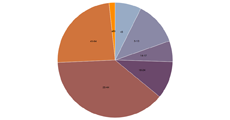
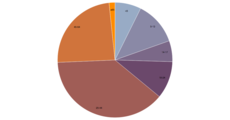
Improve.

diff --git a/index.html b/index.html
@@ -2,8 +2,9 @@
 <meta charset="utf-8">
 <style>
 
-body {
+.arc text {
   font: 10px sans-serif;
+  text-anchor: middle;
 }
 
 .arc path {
@@ -26,6 +27,10 @@ var arc = d3.svg.arc()
     .outerRadius(radius - 10)
     .innerRadius(0);
 
+var labelArc = d3.svg.arc()
+    .outerRadius(radius - 40)
+    .innerRadius(radius - 40);
+
 var pie = d3.layout.pie()
     .sort(null)
     .value(function(d) { return d.population; });
@@ -36,11 +41,8 @@ var svg = d3.select("body").append("svg")
   .append("g")
     .attr("transform", "translate(" + width / 2 + "," + height / 2 + ")");
 
-d3.csv("data.csv", function(error, data) {
-
-  data.forEach(function(d) {
-    d.population = +d.population;
-  });
+d3.csv("data.csv", type, function(error, data) {
+  if (error) throw error;
 
   var g = svg.selectAll(".arc")
       .data(pie(data))
@@ -52,11 +54,14 @@ d3.csv("data.csv", function(error, data) {
       .style("fill", function(d) { return color(d.data.age); });
 
   g.append("text")
-      .attr("transform", function(d) { return "translate(" + arc.centroid(d) + ")"; })
+      .attr("transform", function(d) { return "translate(" + labelArc.centroid(d) + ")"; })
       .attr("dy", ".35em")
-      .style("text-anchor", "middle")
       .text(function(d) { return d.data.age; });
-
 });
+
+function type(d) {
+  d.population = +d.population;
+  return d;
+}
 
 </script>
